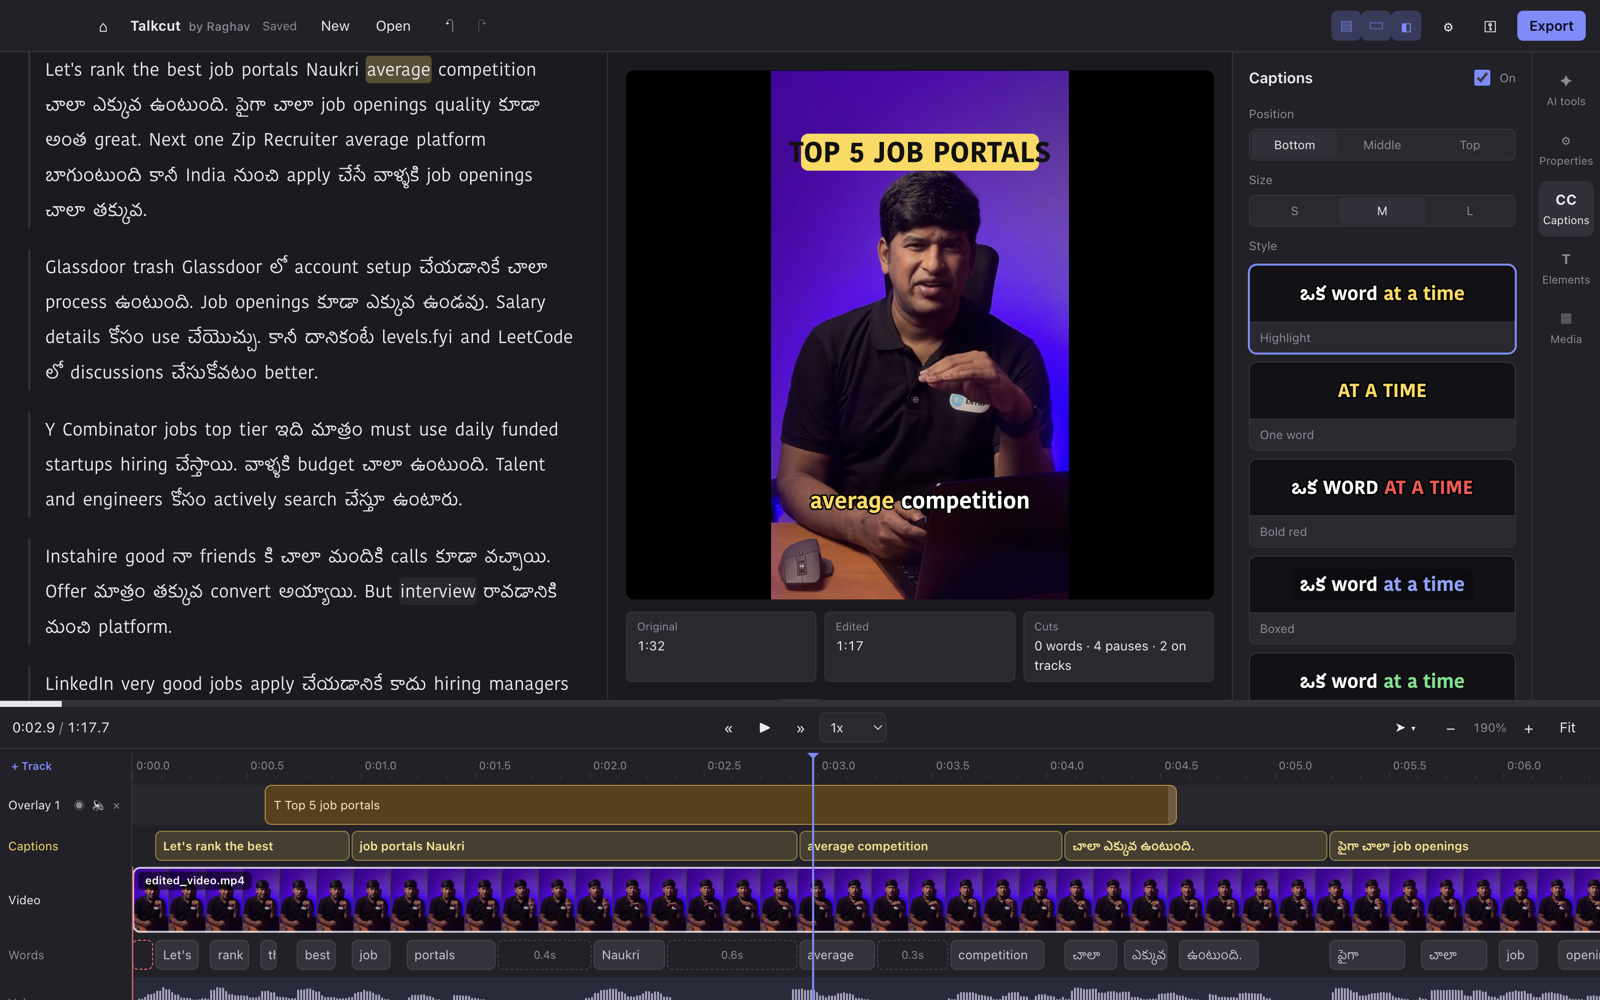
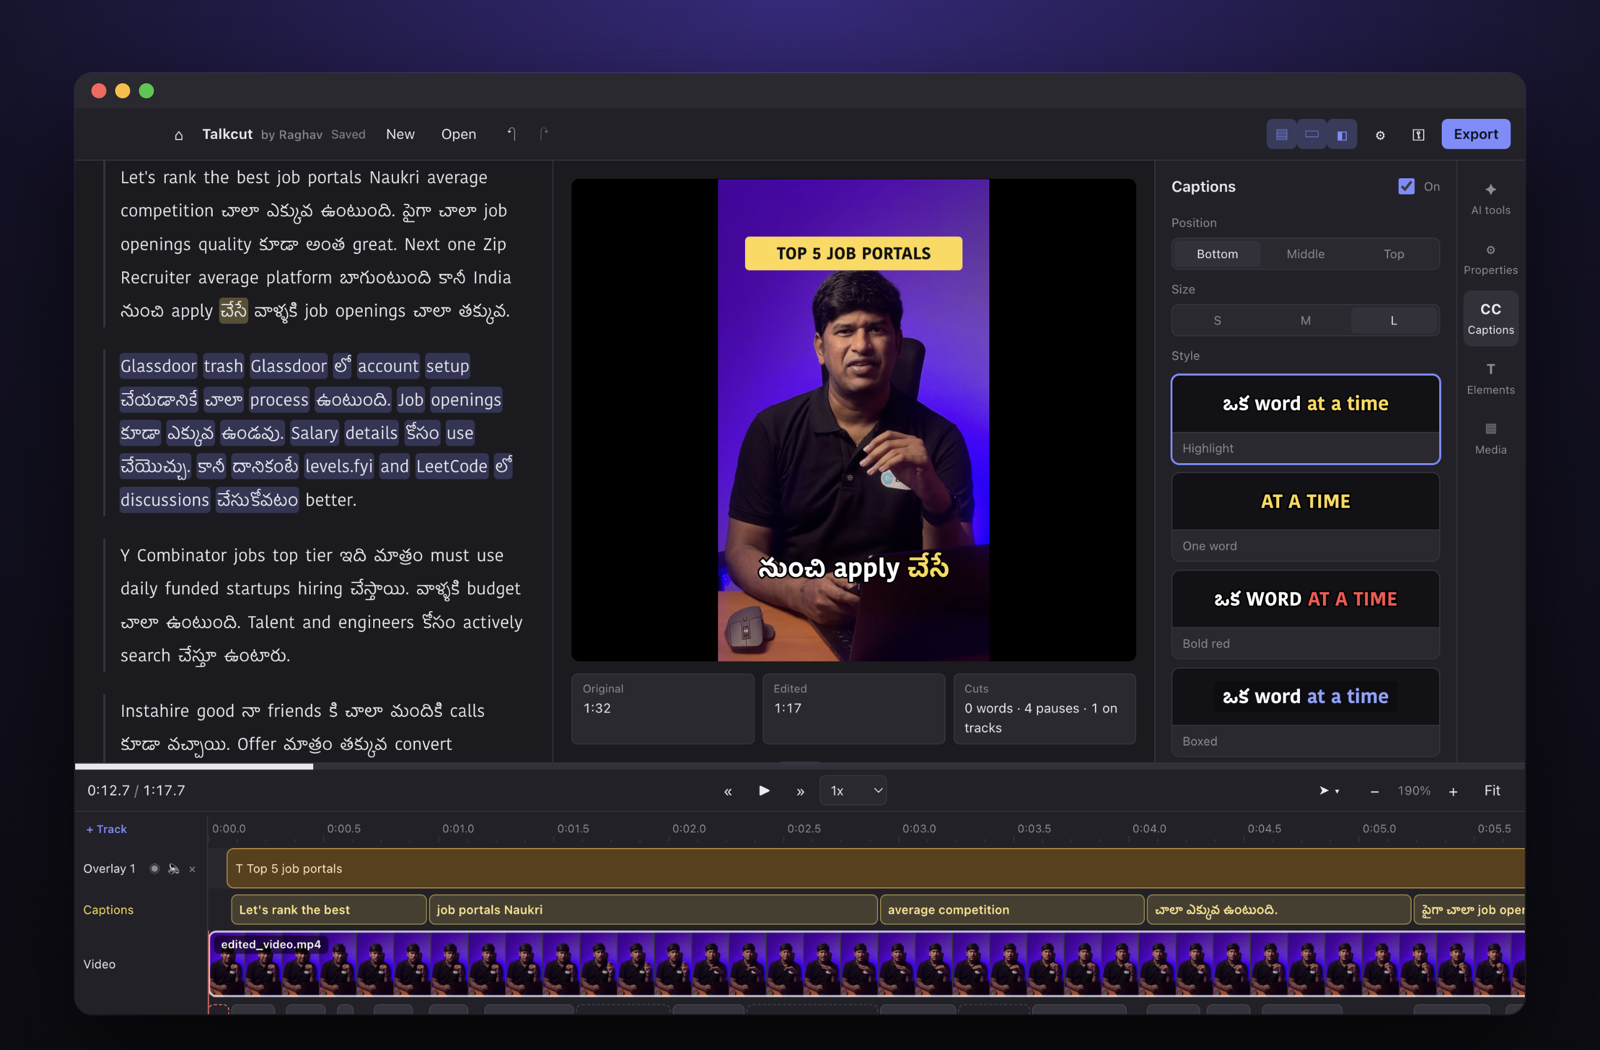
Talkcut 1.0.2: new repo images; text fits its box
- New hero image with Raghav's cut-out (Apple Vision person segmentation),
  framed screenshots of the editor, AI tools, captions and export
- Fix: text and titles shrink to fit their box's width (preview and export)

diff --git a/src/renderer/text.js b/src/renderer/text.js
@@ -36,8 +36,16 @@
   }
 
   // Font size in pixels for a box this many pixels tall.
-  function fontPx(item, boxH) {
-    return Math.max(6, (boxH / Math.max(1, linesOf(item).length)) * 0.78);
+  // ...and never wider than the box: the longest line is estimated at about 0.62 em per
+  // character (0.7 for bold capitals), with room for the padding of boxed styles.
+  function fontPx(item, boxH, boxW = Infinity) {
+    const lines = linesOf(item);
+    const byHeight = (boxH / Math.max(1, lines.length)) * 0.78;
+    const s = styleOf(item);
+    const longest = Math.max(1, ...lines.map((l) => [...l].length));
+    const em = s.upper && s.weight >= 700 ? 0.7 : 0.62;
+    const byWidth = boxW / (longest * em + (s.bg ? 0.9 : 0));
+    return Math.max(6, Math.min(byHeight, byWidth));
   }
 
   function fontFamily(language) {
@@ -49,8 +57,9 @@
   function renderDom(el, item, language) {
     const s = styleOf(item);
     const h = el.clientHeight || parseFloat(el.style.height) || 40;
+    const w = el.clientWidth || parseFloat(el.style.width) || Infinity;
     const lines = linesOf(item);
-    const size = fontPx(item, h);
+    const size = fontPx(item, h, w);
     el.classList.add('text-layer');
     el.style.display = 'flex';
     el.style.flexDirection = 'column';
@@ -126,7 +135,7 @@
       const by = item.box.y * height;
       const bw = item.box.w * width;
       const bh = item.box.h * height;
-      const size = Math.round(fontPx(item, bh));
+      const size = Math.round(fontPx(item, bh, bw));
       const an = s.align === 'left' ? 4 : s.align === 'right' ? 6 : 5;
       const px = s.align === 'left' ? bx + (s.bg ? size * 0.45 : 0) : s.align === 'right' ? bx + bw - (s.bg ? size * 0.45 : 0) : bx + bw / 2;
       const py = by + bh / 2;

diff --git a/test/text.test.js b/test/text.test.js
@@ -39,3 +39,9 @@ test('braces in text cannot inject ASS tags', () => {
   const line = ass.split('\n').find((l) => l.startsWith('Dialogue:'));
   assert.ok(line.endsWith('a(＼pos(0,0))b'), line);
 });
+
+test('text shrinks to fit the width of its box', () => {
+  const long = { kind: 'text', text: 'Top 5 job portals for freshers', style: { preset: 'callout' } };
+  assert.ok(X.fontPx(long, 100, 400) < X.fontPx(long, 100), 'narrow box gives smaller text');
+  assert.ok(X.fontPx({ ...long, text: 'Hi' }, 100, 400) === X.fontPx({ ...long, text: 'Hi' }, 100), 'short text keeps the height-based size');
+});

diff --git a/README.md b/README.md
@@ -1,5 +1,5 @@
 <p align="center">
-  <img src="docs/images/banner.png" alt="Talkcut by Raghav: edit talking-head videos by editing the transcript" width="100%">
+  <img src="docs/images/hero.png" alt="Talkcut by Raghav: edit your videos by editing the text" width="100%">
 </p>
 
 <p align="center">
@@ -23,16 +23,16 @@
 </p>
 
 <p align="center">
-  <img src="docs/images/editor.png" alt="The Talkcut editor: transcript, preview with captions and a title, caption styles, and a multi-track timeline" width="100%">
+  <img src="docs/images/editor.png" alt="The Talkcut editor: a Telugu-English transcript, the video with a title and captions, caption styles, and the timeline" width="100%">
 </p>
 
 ## ⬇ Download
 
 | Device | File | Notes |
 |---|---|---|
-| 🪟 **Windows** 10/11 (64-bit) | [Talkcut-by-Raghav-Setup-1.0.1.exe](https://github.com/raghavsunil99/talkcut/releases/latest) | If "Windows protected your PC" appears, click **More info → Run anyway** |
-| 🍎 **Mac** with Apple silicon (M1 or newer) | [Talkcut-by-Raghav-1.0.1-mac-arm64.dmg](https://github.com/raghavsunil99/talkcut/releases/latest) | Drag to Applications, then **System Settings → Privacy & Security → Open Anyway** once |
-| 🤖 **Android** 6+ phone or tablet | [Talkcut-by-Raghav-1.0.1.apk](https://github.com/raghavsunil99/talkcut/releases/latest) | Allow installing from your browser or Files app, then **Install anyway** |
+| 🪟 **Windows** 10/11 (64-bit) | [Talkcut-by-Raghav-Setup-1.0.2.exe](https://github.com/raghavsunil99/talkcut/releases/latest) | If "Windows protected your PC" appears, click **More info → Run anyway** |
+| 🍎 **Mac** with Apple silicon (M1 or newer) | [Talkcut-by-Raghav-1.0.2-mac-arm64.dmg](https://github.com/raghavsunil99/talkcut/releases/latest) | Drag to Applications, then **System Settings → Privacy & Security → Open Anyway** once |
+| 🤖 **Android** 6+ phone or tablet | [Talkcut-by-Raghav-1.0.2.apk](https://github.com/raghavsunil99/talkcut/releases/latest) | Allow installing from your browser or Files app, then **Install anyway** |
 
 Step-by-step instructions: [HOW TO INSTALL TALKCUT.txt](build/HOW%20TO%20INSTALL%20TALKCUT.txt)
 
@@ -54,8 +54,8 @@ Cut words, pauses and whole sentences from the transcript. Fix spellings for the
 </td>
 </tr>
 <tr>
-<td><img src="docs/images/ai-tools.png" alt="AI tools panel"></td>
-<td><img src="docs/images/captions-drag.png" alt="Dragging captions on the video"></td>
+<td><img src="docs/images/ai.png" alt="AI tools: remove retakes, filler words and pauses, Studio Sound, auto-frame"></td>
+<td><img src="docs/images/captions.png" alt="Selecting and dragging captions on the video"></td>
 </tr>
 <tr>
 <td width="50%" valign="top">
@@ -72,8 +72,7 @@ B-roll, photos, titles and text on overlay tracks; music that turns down while y
 </td>
 </tr>
 <tr>
-<td><img src="docs/images/crop.png" alt="Cropping on the video with shape presets"></td>
-<td><img src="docs/images/export.png" alt="Export presets for Reels, YouTube and more"></td>
+<td colspan="2"><img src="docs/images/export.png" alt="Export presets for Reels, Shorts, YouTube and square posts"></td>
 </tr>
 <tr>
 <td width="50%" valign="top">
@@ -91,10 +90,7 @@ Export presets for Reels / Shorts, YouTube and square posts, with captions burne
 </tr>
 </table>
 
-<p align="center">
-  <img src="docs/images/editor-light.png" alt="Light theme" width="80%"><br>
-  <sub>Dark, Midnight and Light themes, accent colours, and four workspace layouts.</sub>
-</p>
+<p align="center"><sub>Dark, Midnight and Light themes, six accent colours, and four workspace layouts.</sub></p>
 
 ## 📱 On Android
 
